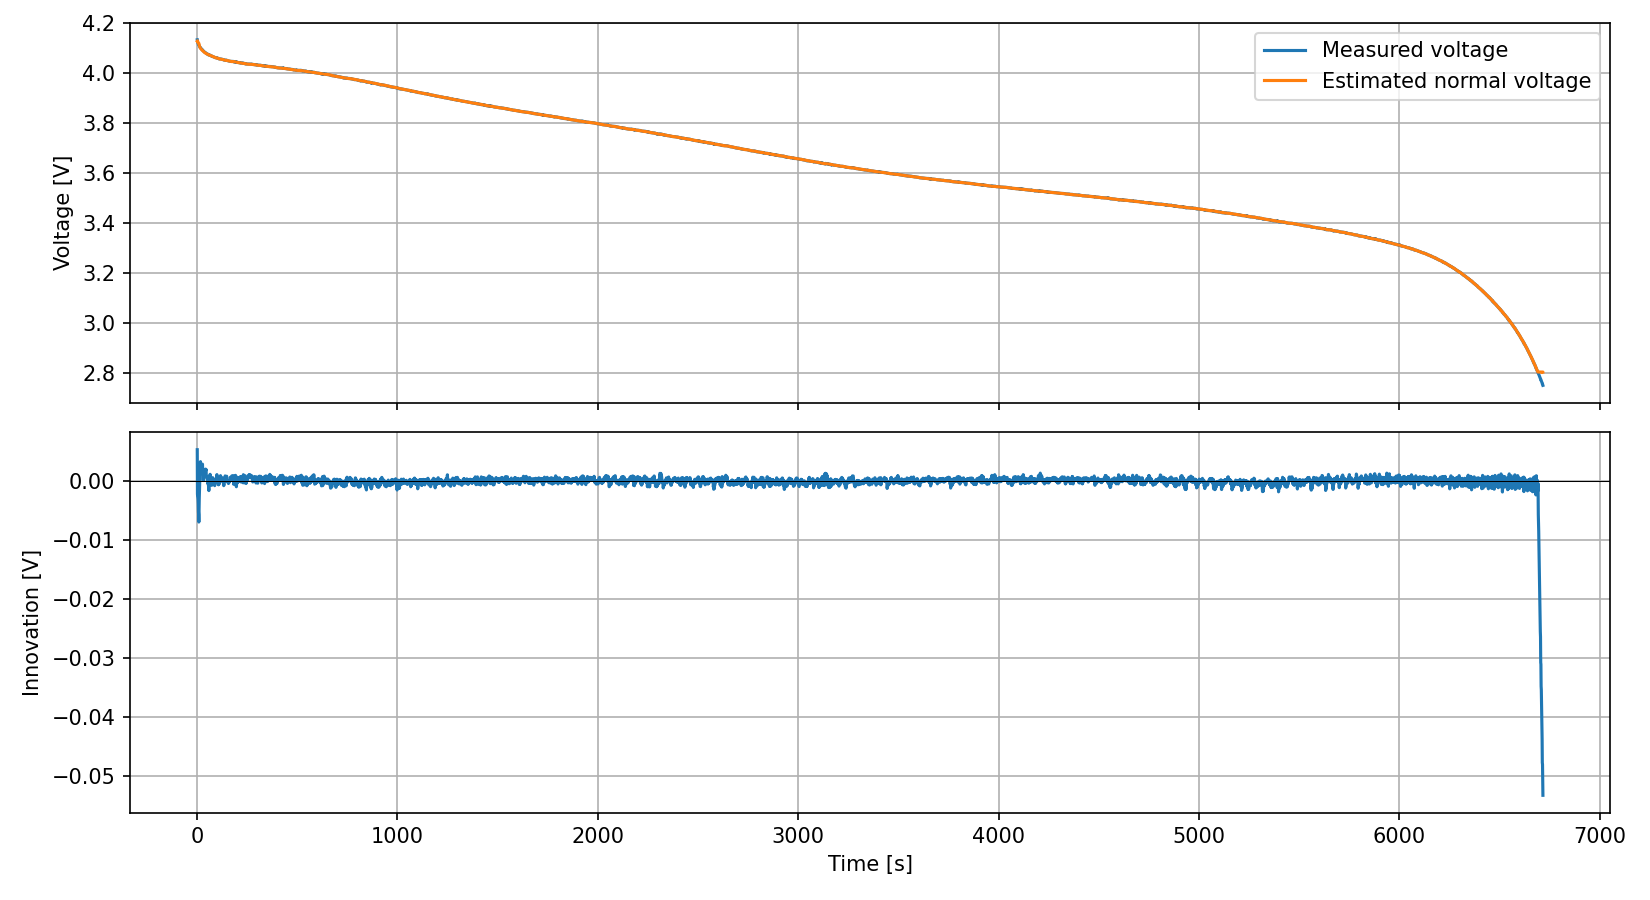
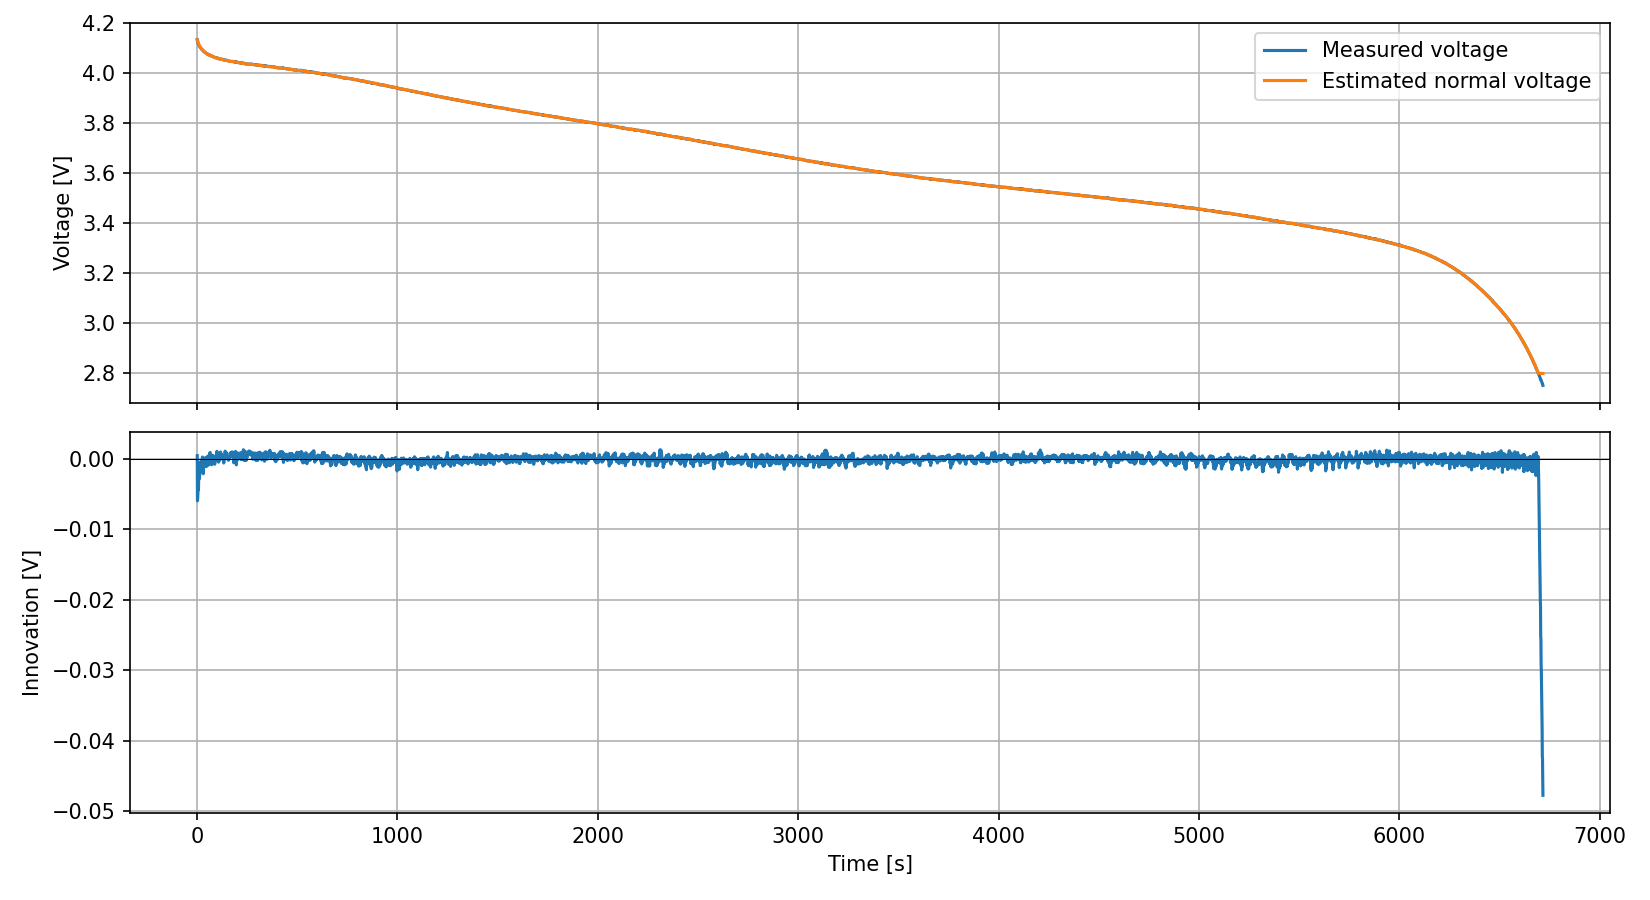
The initial error is reduced

diff --git a/utils/ocv.py b/utils/ocv.py
@@ -1,40 +1,55 @@
 import numpy as np
 
 
-def build_ocv_table_from_cc(cc_data, points=300, degree=7,
-                             R0=0.015, R1=0.01, skip_initial_sec=72.0):
+def extract_cv_ocv_anchor(left_df, R0=0.015, R1=0.01, C1=2400.0,
+                           soc_thresh=99.0, current_thresh=1.0):
+    """CV 충전 말기(SOC≥99%, 전류<1A)에서 OCV(SOC=1.0) 앵커 포인트 추출."""
+    tau = R1 * C1
+    mask = (left_df["soc_percent"] >= soc_thresh) & (left_df["current_raw"] < current_thresh)
+    cv = left_df[mask]
+    if len(cv) == 0:
+        return None, None
+    t = cv["time"].to_numpy()
+    I = cv["current_raw"].to_numpy()
+    V = cv["voltage"].to_numpy()
+    ocv = V - R0 * I - R1 * (1.0 - np.exp(-t / tau)) * I
+    return cv["soc_percent"].to_numpy() / 100.0, ocv
+
+
+def build_ocv_table_from_cc(cc_datasets, points=300, degree=7,
+                             R0=0.015, R1=0.01, C1=2400.0,
+                             cv_anchors=None):
     """
-    CC 방전 데이터로 OCV(SOC) 룩업테이블 생성.
+    CC 방전 데이터(파일별 리스트)로 OCV(SOC) 룩업테이블 생성.
 
-    IR 보정:
-        CC 방전 중 단말전압에는 ohmic drop이 포함되어 있음.
-        OCV_corrected = V_terminal + (R0 + R1) * I
-        초기 72초(= 3 * RC시상수)는 Vrc 미수렴 구간이므로 제외.
+    IR 보정: OCV(t) = V_terminal + R0*I + R1*(1-exp(-t/τ))*I
+      - t=0에서 Vrc=0 가정 (완전충전 후 방전 시작)
+      - 시간에 따른 Vrc 수렴을 물리 모델로 직접 보정 → 초반 데이터도 활용 가능
 
-    Polynomial:
-        보정된 (SOC, OCV) 데이터를 degree차 다항식으로 피팅.
-        여러 파일을 합쳐도 최소제곱법이 자동으로 평균화 처리.
+    cv_anchors: load_left_block + extract_cv_ocv_anchor로 얻은 충전 말기 앵커.
+      - SOC=1.0 근방 OCV를 보강해 극초반 EKF 수렴 오차를 줄임.
     """
-    df = cc_data.copy()
+    tau = R1 * C1
+    soc_all, ocv_all = [], []
 
-    # SOC (fraction 0~1) 계산
-    df["soc"] = 1.0 - df["soc_dod_percent"] / 100.0
+    for df in cc_datasets:
+        soc = 1.0 - df["soc_dod_percent"].to_numpy() / 100.0
+        t   = df["time"].to_numpy()
+        I   = df["current"].to_numpy()
+        V   = df["voltage"].to_numpy()
+        ocv_all.append(V + R0 * I + R1 * (1.0 - np.exp(-t / tau)) * I)
+        soc_all.append(soc)
 
-    # 초기 과도구간 제외 (Vrc 미수렴)
-    if "time" in df.columns:
-        t0 = df["time"].min()
-        df = df[df["time"] - t0 >= skip_initial_sec]
+    if cv_anchors:
+        for soc_anc, ocv_anc in cv_anchors:
+            if soc_anc is not None:
+                soc_all.append(soc_anc)
+                ocv_all.append(ocv_anc)
 
-    # IR 보정: OCV ≈ V_terminal + (R0 + R1) * I
-    df["ocv_corrected"] = df["voltage"] + (R0 + R1) * df["current"]
+    soc = np.concatenate(soc_all)
+    ocv = np.concatenate(ocv_all)
 
-    soc = df["soc"].to_numpy()
-    ocv = df["ocv_corrected"].to_numpy()
-
-    # Polynomial 피팅 (최소제곱)
-    coeffs = np.polyfit(soc, ocv, deg=degree)
-
-    # 룩업테이블로 변환 (EKF는 np.interp 사용)
+    coeffs    = np.polyfit(soc, ocv, deg=degree)
     soc_table = np.linspace(soc.min(), soc.max(), points)
     ocv_table = np.polyval(coeffs, soc_table)
 

diff --git a/scripts/main_usage_example.py b/scripts/main_usage_example.py
@@ -2,7 +2,6 @@ from pathlib import Path
 import sys
 
 import numpy as np
-import pandas as pd
 
 PROJECT_ROOT = Path(__file__).resolve().parents[1]
 sys.path.insert(0, str(PROJECT_ROOT))
@@ -11,6 +10,8 @@ from utils import (
     add_coulomb_counted_soc,
     add_dataset_dod_soc,
     build_ocv_table_from_cc,
+    extract_cv_ocv_anchor,
+    load_left_block,
     load_right_block,
     plot_ekf_data,
     run_ekf,
@@ -22,7 +23,7 @@ DATASET_ROOT = (
     / "swhlqu-voltage_prediction_and_ISC_detection-dd56682"
 )
 
-# OCV-SOC 곡선용 정상 CC 디렉토리 (전체 파일 풀링)
+# OCV-SOC 곡선용 정상 CC 디렉토리
 NORMAL_CC_DIR = DATASET_ROOT / "NCM811_NORMAL_TEST" / "CC"
 
 # TARGET 경로는 EKF를 적용하고 싶은 데이터셋이다
@@ -43,24 +44,24 @@ TARGET_DST_PATH = (
 
 
 def main():
-    # 정상 CC 전체 파일을 풀링해 OCV-SOC 곡선 생성
+    # 정상 CC 전체 파일을 이용하여 OCV-SOC 곡선 생성
     cc_paths = sorted(NORMAL_CC_DIR.glob("ISC_BD_0.5CC_0.5CD_*ohm.csv"))
     cc_frames = [load_right_block(p) for p in cc_paths]
-    pooled_cc = pd.concat(cc_frames, ignore_index=True)
-    soc_table, ocv_table = build_ocv_table_from_cc(pooled_cc)
+    cv_anchors = [extract_cv_ocv_anchor(load_left_block(p)) for p in cc_paths]
+    soc_table, ocv_table = build_ocv_table_from_cc(cc_frames, cv_anchors=cv_anchors)
 
     # 데이터셋에서는 ah 단위이지만 EKF에서는 C로 구현해놨기에 3600을 곱한다
     capacity_coulomb = max(df["capacity_ah"].max() for df in cc_frames) * 3600.0
 
     # CC 데이터를 대상으로 EKF를 적용한다
-    # target_data = load_right_block(TARGET_CC_PATH)
-    # target_data = add_dataset_dod_soc(target_data)
-    # output_path = PROJECT_ROOT / "images" / "usage_example_cc_result.png"
+    target_data = load_right_block(TARGET_CC_PATH)
+    target_data = add_dataset_dod_soc(target_data)
+    output_path = PROJECT_ROOT / "images" / "usage_example_cc_result.png"
 
     # DST 데이터에 적용하려면 위 세 줄 대신 아래 코드를 사용 : Ground Truth 용
-    target_data = load_right_block(TARGET_DST_PATH)
-    target_data = add_coulomb_counted_soc(target_data, capacity_coulomb)
-    output_path = PROJECT_ROOT / "images" / "usage_example_dst_result.png"
+    # target_data = load_right_block(TARGET_DST_PATH)
+    # target_data = add_coulomb_counted_soc(target_data, capacity_coulomb)
+    # output_path = PROJECT_ROOT / "images" / "usage_example_dst_result.png"
 
     result_data = run_ekf(
         target_data,

diff --git a/scripts/cc_ekf_design.py b/scripts/cc_ekf_design.py
@@ -79,9 +79,10 @@ def main():
     capacity_coulomb = max(df["capacity_ah"].max() for df in cc_datasets) * 3600.0
     print(f"CC 파일 {len(cc_datasets)}개  |  용량 {capacity_coulomb/3600:.4f} Ah")
 
-    # ── 2. OCV 테이블 (전체 CC 풀링) ─────────────────────────────────────
-    pooled_cc = pd.concat(cc_datasets, ignore_index=True)
-    soc_table, ocv_table = build_ocv_table_from_cc(pooled_cc)
+    # ── 2. OCV 테이블 (전체 CC + CV 앵커) ───────────────────────────────
+    from utils import extract_cv_ocv_anchor, load_left_block
+    cv_anchors = [extract_cv_ocv_anchor(load_left_block(p)) for p in cc_paths]
+    soc_table, ocv_table = build_ocv_table_from_cc(cc_datasets, cv_anchors=cv_anchors)
     print(f"OCV 테이블  |  SOC {soc_table[0]:.3f} ~ {soc_table[-1]:.3f}")
 
     # ── 3. NIS 그리드서치 ────────────────────────────────────────────────

diff --git a/utils/data.py b/utils/data.py
@@ -2,6 +2,19 @@ import numpy as np
 import pandas as pd
 
 
+def load_left_block(path):
+    """충전 블록(왼쪽)을 읽어옴. CV 말기 데이터로 OCV(SOC=1.0) 앵커 추출에 사용."""
+    df = pd.read_csv(path)
+    data = pd.DataFrame({
+        "time":        df.iloc[:, 0],
+        "current_raw": df.iloc[:, 1],
+        "soc_percent": df.iloc[:, 3],
+        "voltage":     df.iloc[:, 4],
+    }).dropna()
+    data["time"] = data["time"] - data["time"].iloc[0]
+    return data.reset_index(drop=True)
+
+
 ## 데이터셋에서 충전부가 아닌, 방전부를 읽어옴
 def load_right_block(path):
     df = pd.read_csv(path)

diff --git a/utils/__init__.py b/utils/__init__.py
@@ -1,6 +1,6 @@
 from .ekf import EKF
-from .data import add_coulomb_counted_soc, add_dataset_dod_soc, load_right_block
-from .ocv import build_ocv_table_from_cc
+from .data import add_coulomb_counted_soc, add_dataset_dod_soc, load_right_block, load_left_block
+from .ocv import build_ocv_table_from_cc, extract_cv_ocv_anchor
 from .pipeline import run_ekf
 from .plotting import plot_ekf_data
 from .ekf_eval import compute_metrics, compute_nis_metrics, nis_score, print_report
